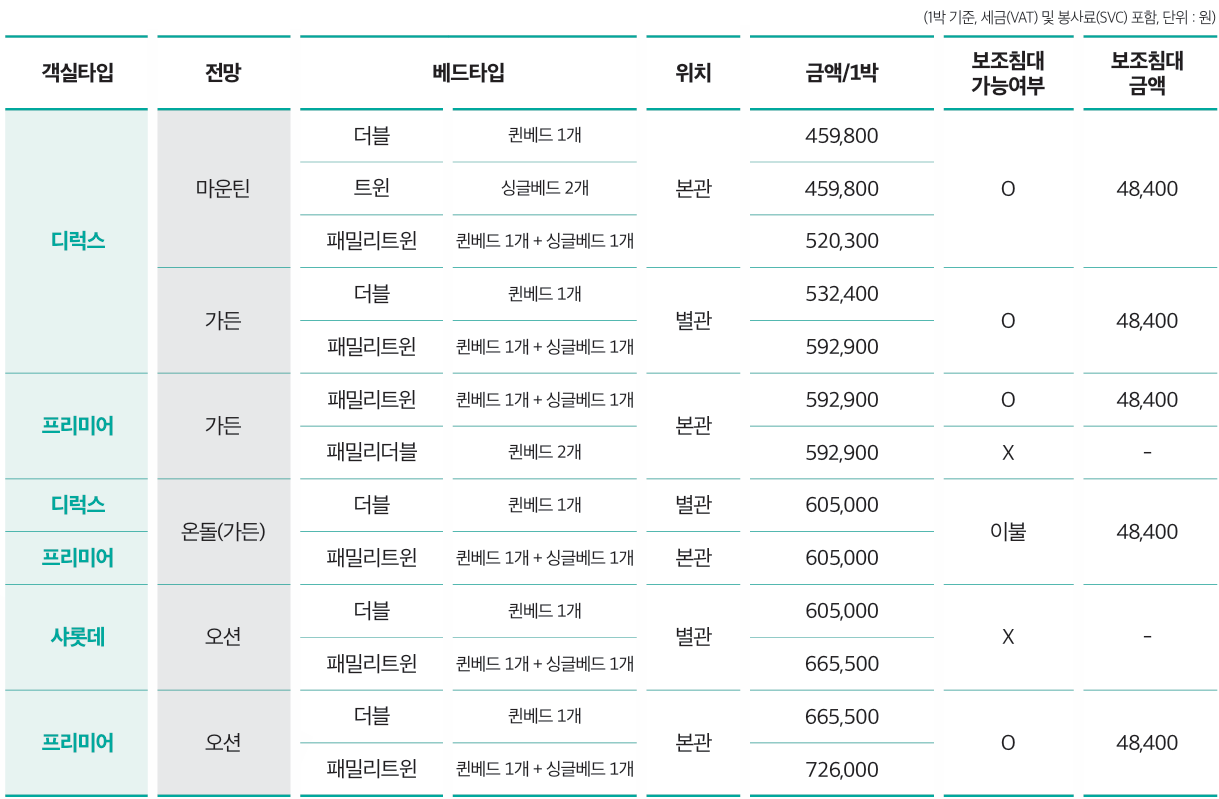
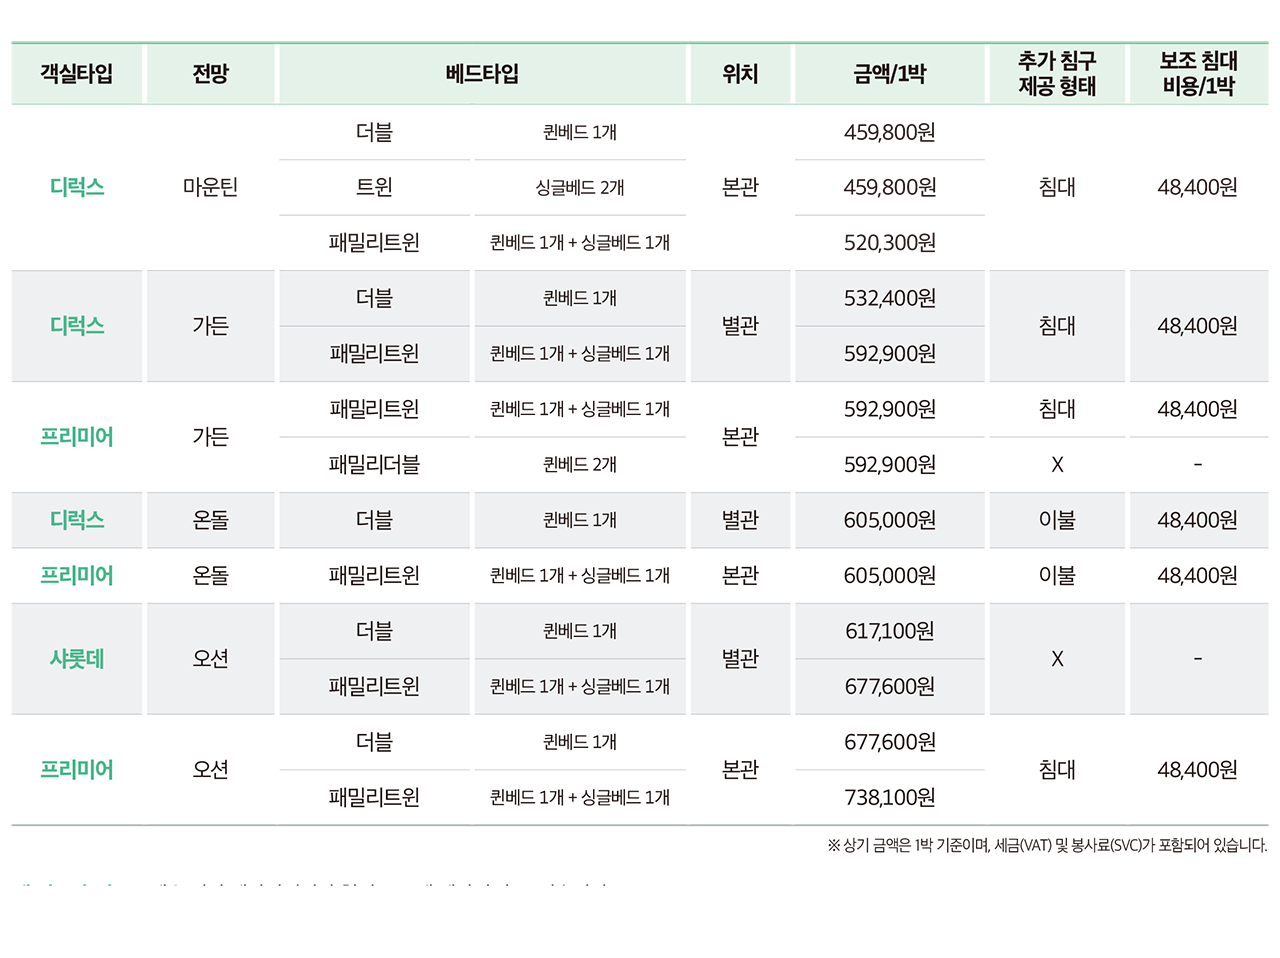
hotel 수정사항 적용

diff --git a/Hotel.html b/Hotel.html
@@ -162,9 +162,9 @@
                         <th>투숙기간</th>
                         <td>
                             <div data-date_box>
-                                <input data-start_date type="date" min="2026-07-21" max="2026-07-29" data-placeholder="시작일 선택" onclick="(this.type='date')" />
+                                <input data-start_date type="date" min="2026-07-18" max="2026-07-27" data-placeholder="체크인 날짜 선택" onclick="(this.type='date')" />
                                 <span data-tilde>~</span>
-                                <input data-end_date type="date" min="2026-07-22" max="2026-07-30" data-placeholder="종료일 선택" />
+                                <input data-end_date type="date" min="2026-07-18" max="2026-07-27" data-placeholder="체크아웃 날짜 선택" />
                                 <span data-cal_row></span>
                             </div>
                         </td>
@@ -184,18 +184,18 @@
                         </td>
                     </tr>
                     <tr>
-                        <th>체크인 예정</th>
-                        <td>15시 00분</td>
+                        <th>체크인/아웃 시간</th>
+                        <td>15시 체크인 11시 체크아웃</td>
                     </tr>
                     <tr>
-                        <th>조식 이용 여부</th>
+                        <th>환영,환송 만찬 참석 여부</th>
                         <td>
                             <div class="passenger-radio-group">
                                 <label class="passenger-radio-item">
-                                    <input type="radio" name="breakfast_status" value="true" checked /> 이용
+                                    <input type="radio" name="breakfast_status" value="true" checked /> 모두 참석합니다
                                 </label>
                                 <label class="passenger-radio-item">
-                                    <input type="radio" name="breakfast_status" value="false" /> 이용안함
+                                    <input type="radio" name="breakfast_status" value="false" /> 일부만 참석합니다
                                 </label>
                             </div>
                         </td>
@@ -211,11 +211,15 @@
                         <td>
                             <div data-total_box class="flex-col">
                                 <span><span data-total>0</span>원</span>
-                                <label>(<input type="checkbox" name="pay" />호텔비 개별 결제 )</label>
+                                <label>(<input type="checkbox" name="pay" />호텔 직접 결제용 카드정보 입력 (협회 통한 일괄 결제 시 작성 생략)</label>
                             </div>
                         </td>
                     </tr>
                 </table>
+                <div data-button_box>
+                    <button data-pre_btn type="button">이전</button>
+                    <button type="submit" data-save_button>호텔정보 임시저장</button>
+                </div>                
                 <div data-card_info_wrap>
                     <div data-card_info_box>
                         <p>카드 정보 입력</p>
@@ -250,29 +254,19 @@
                     </div>
                 </div>
                 <div data-notice_box>
-                    <p>※ 제출 전 반드시 확인해 주세요.</p>
-                    <p>• 부가세, 봉사료가 포함되어 있으며, 참가자 전용 특별 할인 혜택이 반영된 금액입니다.</p>
-                    <p>• 포럼 앞/뒤 기간 연박 시에도 동일한 할인 혜택을 적용받을 수 있습니다.</p>
-                    <p>• 일부 객실 타입은 선착순 조기 마감될 수 있으며, 객실 층은 임의 배정됩니다.</p>
+                    <p style="color: red; font-weight: bold;">※ 제출 전 반드시 확인해 주세요.</p>
+                    <p>• 본 요금은 포럼 참가자 대상 특별 할인 요금이며, 행사 전·후 연박 시에도 동일하게 적용됩니다.</p>
+                    <p>• 일부 객실 타입은 선착순 조기 마감될 수 있으며, 객실 층 및 위치는 호텔 상황에 따라 임의 배정됩니다.</p>
                     <p>
-                        • 보조침대 추가 시 1박 48400원 (3박 145,200원) 비용이 발생됩니다.<br />
-                        &nbsp;&nbsp;&nbsp;- 보조침대 불가 객실 타입 : 샤롯데 룸 또는 패밀리더블(더블+더블)<br />
-                        &nbsp;&nbsp;&nbsp;- 온돌 객실에는 보조 침대 대신 이불이 제공됩니다.
+                        • 보조침대 추가 시 별도 비용이 발생하며, 객실 타입에 따라 추가가 제한될 수 있습니다.<br />
+                        &nbsp;&nbsp;&nbsp;- 디럭스 온돌(더블), 프리미어 온돌(패밀리트윈) 타입은 보조침대 대신 침구(이불) 제공<br />
+                        &nbsp;&nbsp;&nbsp;- 프리미어 가든(패밀리더블), 샤롯데 오션(더블·패밀리트윈) 타입은 보조침대 설치 불가<br />
+                        &nbsp;&nbsp;&nbsp;※ 프리미어 가든(패밀리트윈) 타입은 보조침대 추가 가능
                     </p>
-                    <p>• 결제는 참가비와 함께 일괄 계산서 처리 또는 체크아웃 시 개별 결제 모두 가능합니다.</p>
-                    <p>• 개별 결제를 원하시는 경우, 결제를 위한 카드 정보를 입력해주시기 바랍니다.</p>
-                    <p>
-                        • 롯데호텔 ‘리워즈’ 멤버십 가입 시, 본 포럼을 통해 예약하신 경우에도 포인트 적립 및 회원 혜택이 동일하게 적용됩니다. <br />
-                        &nbsp;&nbsp;&nbsp;가입 및 적립은 행사 기간 중 호텔 프런트 데스크에서 가능하며, 자세한 내용은 아래 링크를 참고해 주시기 바랍니다.<br />
-                        <a href="https://www.lottehotel.com/global/ko/sign-up/rewards?hotelCode=LTJE&dprtCode=SM">
-                            &nbsp;&nbsp;&nbsp;https://www.lottehotel.com/global/ko/sign-up/rewards?hotelCode=LTJE&dprtCode=SM
-                        </a>
-                    </p>
+                    <p>• 호텔 추가 이용 비용(조식, 라운지, 부대시설 등, 참가비 미포함 사항)은 참가자 개별 정산이 원칙이며, 협회를 통한 정산 희망 시 요청사항에 기재 부탁드립니다.</p>
+                    <p>• 객실 취소 및 변경은 시점에 따라 위약금이 발생할 수 있습니다.</p>
                 </div>
-                <div data-button_box>
-                    <button data-pre_btn type="button">이전</button>
-                    <button type="submit" data-save_button>호텔정보 임시저장</button>
-                </div>
+
                 <div data-img-area>
                     <p><img src="/images/ksa_hotel_info.png" alt="" /></p>
                     <p style="margin-top: 30px"><img src="/images/ksa_hotel_a.png" alt="" /></p>

diff --git a/css/hotel.css b/css/hotel.css
@@ -338,6 +338,10 @@ main [data-content_box] [data-card_info_wrap] [data-card_info_box] .form-info-bo
 main [data-content_box] [data-card_info_wrap] [data-card_info_box] .form-info-box p a {
   display: inline;
 }
+main [data-content_box] [data-button_box] {
+  padding-top: 20px;
+  padding-bottom: 35px;
+}
 
 @media (max-width: 760px) {
   main [data-content_box] {

diff --git a/sass/hotel.sass b/sass/hotel.sass
@@ -211,6 +211,10 @@ main
                             margin-top: 10px
                         a
                             display: inline
+        [data-button_box]
+            padding:
+                top: 20px
+                bottom: 35px
 @media (max-width: 760px)
     main
         [data-content_box]
